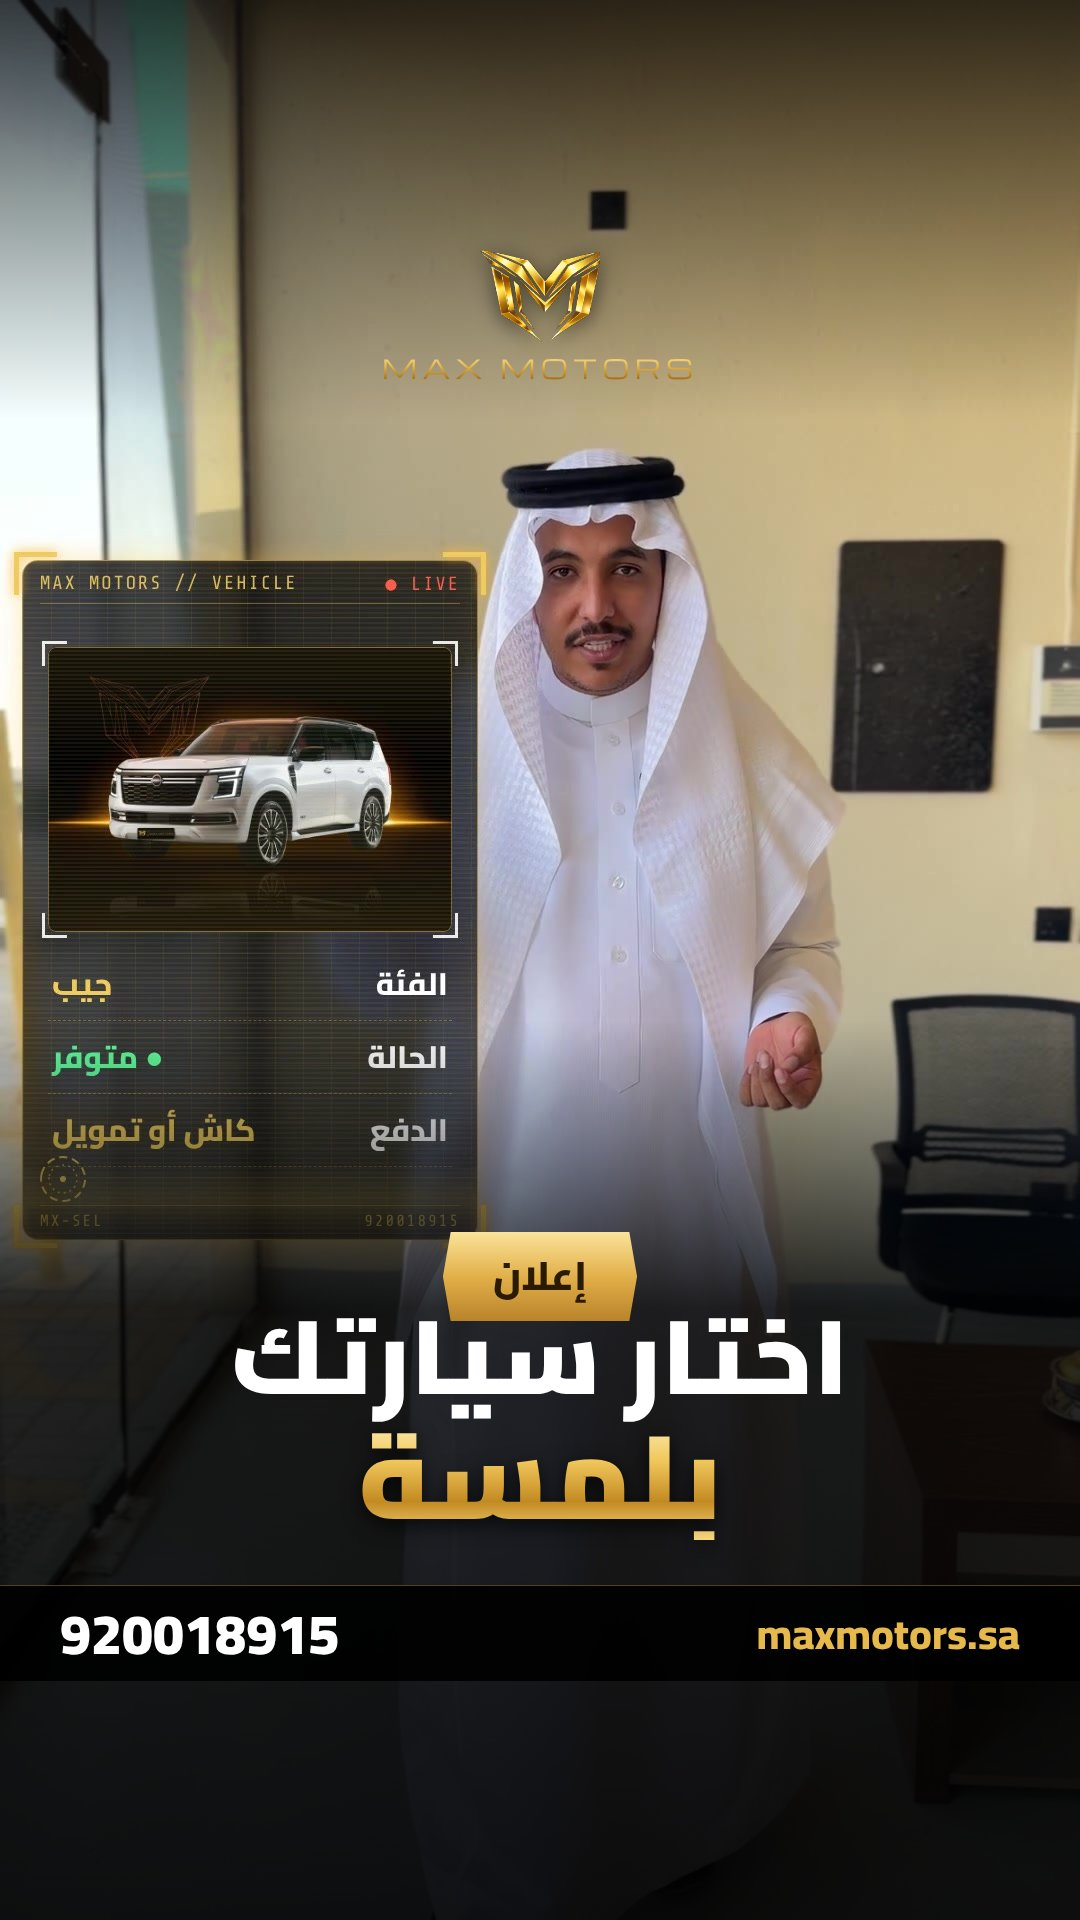
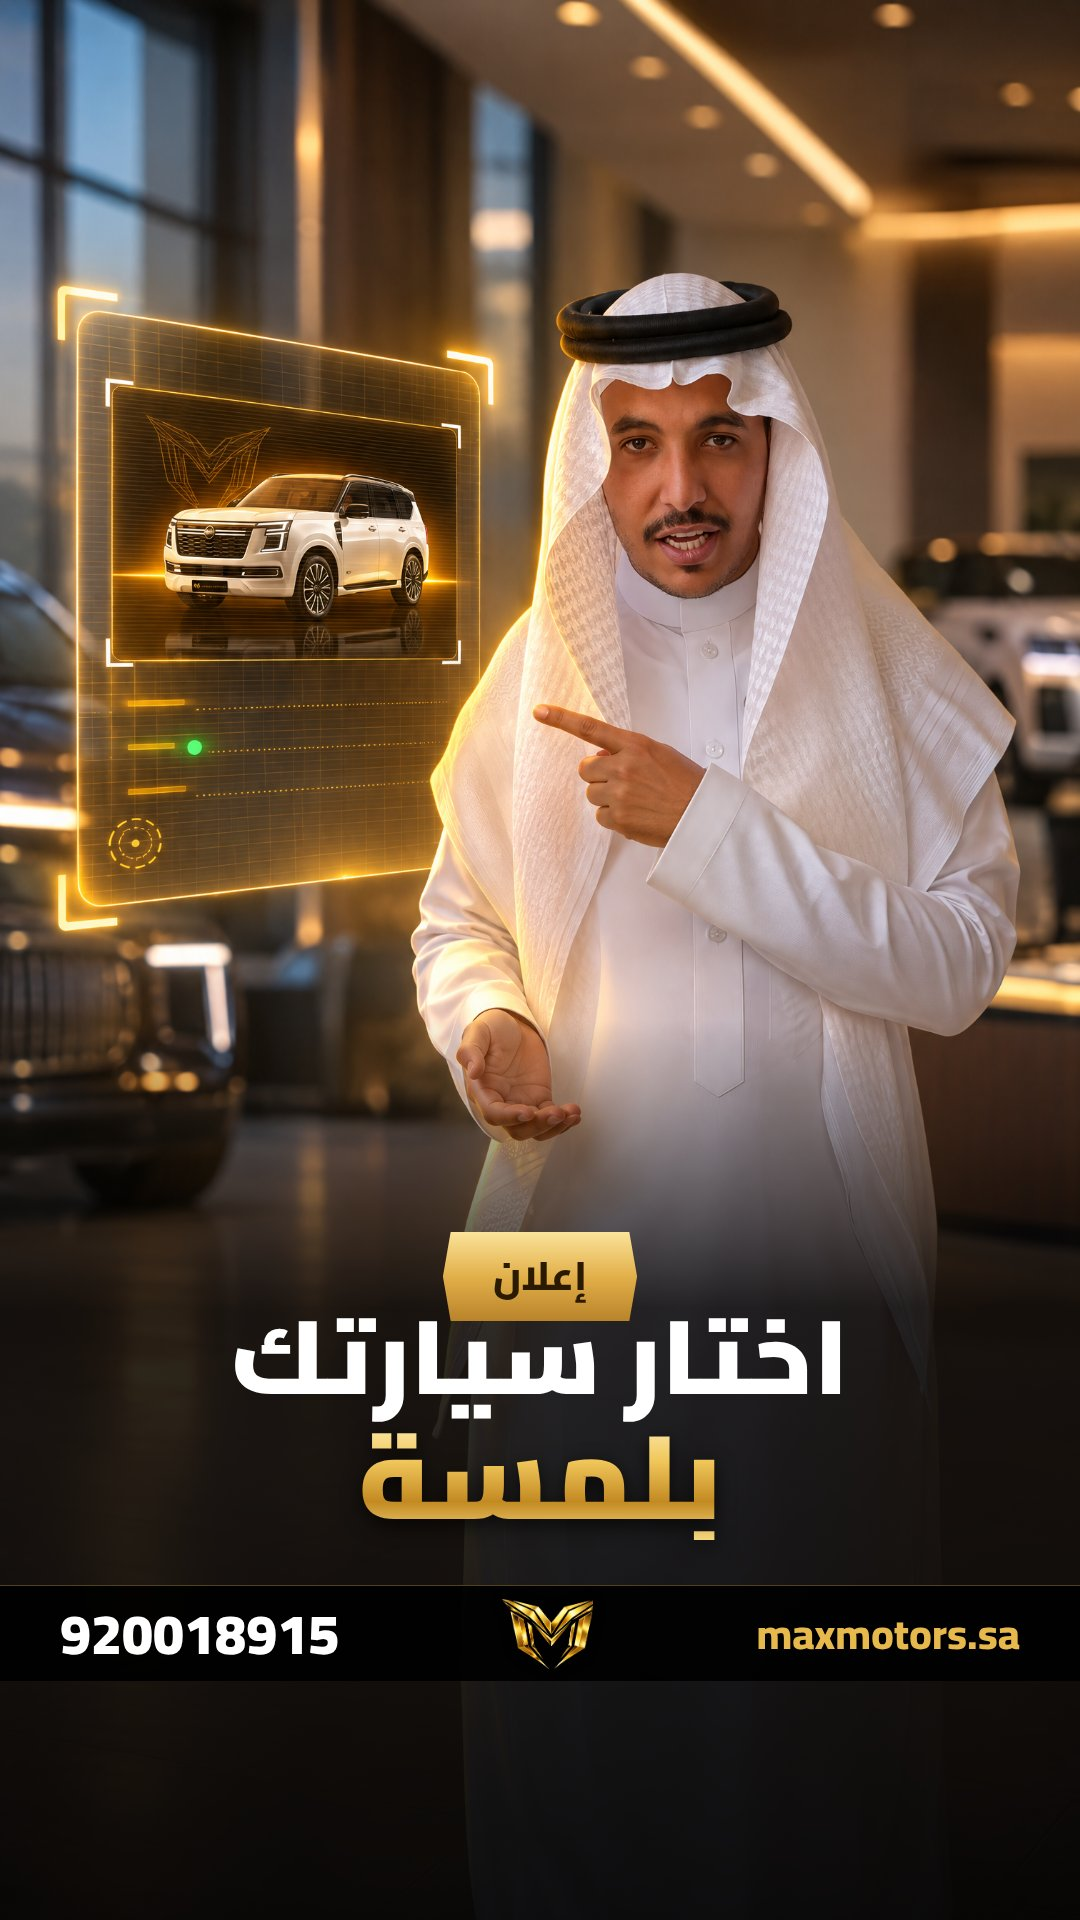
Glass reel: Higgsfield presenter cover portraits (hologram), main + alt
Claude-Session: https://claude.ai/code/session_013TYQJG1dCkVjYNVz2U9GyP

diff --git a/production/motion/glass_presenter/cover/c_a1.html b/production/motion/glass_presenter/cover/c_a1.html
@@ -1,0 +1,24 @@
+<!doctype html><html><head><meta charset="utf-8">
+<link href="https://fonts.googleapis.com/css2?family=Cairo:wght@800;900&family=Michroma&display=swap" rel="stylesheet">
+<style>
+html,body{margin:0;width:1080px;height:1920px;overflow:hidden;background:#000;font-family:Cairo}
+#im{position:absolute;inset:0;width:1080px;height:1920px;object-fit:cover}
+#tg{display:none}
+#bg{position:absolute;left:0;right:0;top:1020px;bottom:0;background:linear-gradient(rgba(0,0,0,0),rgba(0,0,0,.82) 32%,rgba(0,0,0,.92))}
+#logo{position:absolute;left:0;right:0;top:250px;text-align:center}
+#logo img{width:120px;filter:drop-shadow(0 4px 10px rgba(0,0,0,.6))}
+#logo div{font-family:Michroma;font-size:26px;letter-spacing:5px;margin-top:-2px;background:linear-gradient(180deg,#fff3c4,#e7b94d 45%,#a8741a 80%,#e9c36a);-webkit-background-clip:text;background-clip:text;color:transparent}
+#cat{position:absolute;left:0;right:0;top:1232px;text-align:center}
+#cat span{display:inline-block;font-weight:800;font-size:40px;color:#2a1a00;padding:6px 50px 8px;background:linear-gradient(180deg,#fbe39a,#e2b04a 50%,#b9832a);clip-path:polygon(4% 0,96% 0,100% 50%,96% 100%,4% 100%,0 50%)}
+#ti{position:absolute;left:30px;right:30px;top:1300px;text-align:center;direction:rtl;font-weight:900;line-height:1.08}
+#ti .w{display:block;color:#fff;font-size:104px}
+#ti .g{display:block;font-size:118px;background:linear-gradient(180deg,#fff3c4 0%,#f1c75b 38%,#c38a22 70%,#f5d77f 100%);-webkit-background-clip:text;background-clip:text;color:transparent;filter:drop-shadow(0 6px 10px rgba(0,0,0,.75))}
+#bar{position:absolute;left:0;right:0;top:1585px;height:95px;background:rgba(0,0,0,.9);border-top:1px solid rgba(231,185,77,.35);display:flex;align-items:center;justify-content:space-between;padding:0 60px}
+#bar .u{font-weight:800;font-size:42px;color:#e7b94d;direction:ltr}#bar .n{font-weight:900;font-size:56px;color:#fff;direction:ltr}
+</style></head><body>
+<img id="im" src="a1.png"><div id="tg"></div><div id="bg"></div>
+
+<div id="cat"><span>إعلان</span></div>
+<div id="ti"><span class="w">اختار سيارتك</span><span class="g">بلمسة</span></div>
+<div id="bar"><span class="n">920018915</span><img src="emblem.png" style="height:70px;filter:drop-shadow(0 2px 6px rgba(0,0,0,.6))"><span class="u">maxmotors.sa</span></div>
+<script>window.render=()=>{}</script></body></html>

diff --git a/production/motion/glass_presenter/cover/c_a2.html b/production/motion/glass_presenter/cover/c_a2.html
@@ -1,0 +1,24 @@
+<!doctype html><html><head><meta charset="utf-8">
+<link href="https://fonts.googleapis.com/css2?family=Cairo:wght@800;900&family=Michroma&display=swap" rel="stylesheet">
+<style>
+html,body{margin:0;width:1080px;height:1920px;overflow:hidden;background:#000;font-family:Cairo}
+#im{position:absolute;inset:0;width:1080px;height:1920px;object-fit:cover}
+#tg{display:none}
+#bg{position:absolute;left:0;right:0;top:1020px;bottom:0;background:linear-gradient(rgba(0,0,0,0),rgba(0,0,0,.82) 32%,rgba(0,0,0,.92))}
+#logo{position:absolute;left:0;right:0;top:250px;text-align:center}
+#logo img{width:120px;filter:drop-shadow(0 4px 10px rgba(0,0,0,.6))}
+#logo div{font-family:Michroma;font-size:26px;letter-spacing:5px;margin-top:-2px;background:linear-gradient(180deg,#fff3c4,#e7b94d 45%,#a8741a 80%,#e9c36a);-webkit-background-clip:text;background-clip:text;color:transparent}
+#cat{position:absolute;left:0;right:0;top:1232px;text-align:center}
+#cat span{display:inline-block;font-weight:800;font-size:40px;color:#2a1a00;padding:6px 50px 8px;background:linear-gradient(180deg,#fbe39a,#e2b04a 50%,#b9832a);clip-path:polygon(4% 0,96% 0,100% 50%,96% 100%,4% 100%,0 50%)}
+#ti{position:absolute;left:30px;right:30px;top:1300px;text-align:center;direction:rtl;font-weight:900;line-height:1.08}
+#ti .w{display:block;color:#fff;font-size:104px}
+#ti .g{display:block;font-size:118px;background:linear-gradient(180deg,#fff3c4 0%,#f1c75b 38%,#c38a22 70%,#f5d77f 100%);-webkit-background-clip:text;background-clip:text;color:transparent;filter:drop-shadow(0 6px 10px rgba(0,0,0,.75))}
+#bar{position:absolute;left:0;right:0;top:1585px;height:95px;background:rgba(0,0,0,.9);border-top:1px solid rgba(231,185,77,.35);display:flex;align-items:center;justify-content:space-between;padding:0 60px}
+#bar .u{font-weight:800;font-size:42px;color:#e7b94d;direction:ltr}#bar .n{font-weight:900;font-size:56px;color:#fff;direction:ltr}
+</style></head><body>
+<img id="im" src="a2.png"><div id="tg"></div><div id="bg"></div>
+
+<div id="cat"><span>إعلان</span></div>
+<div id="ti"><span class="w">اختار سيارتك</span><span class="g">بلمسة</span></div>
+<div id="bar"><span class="n">920018915</span><img src="emblem.png" style="height:70px;filter:drop-shadow(0 2px 6px rgba(0,0,0,.6))"><span class="u">maxmotors.sa</span></div>
+<script>window.render=()=>{}</script></body></html>
